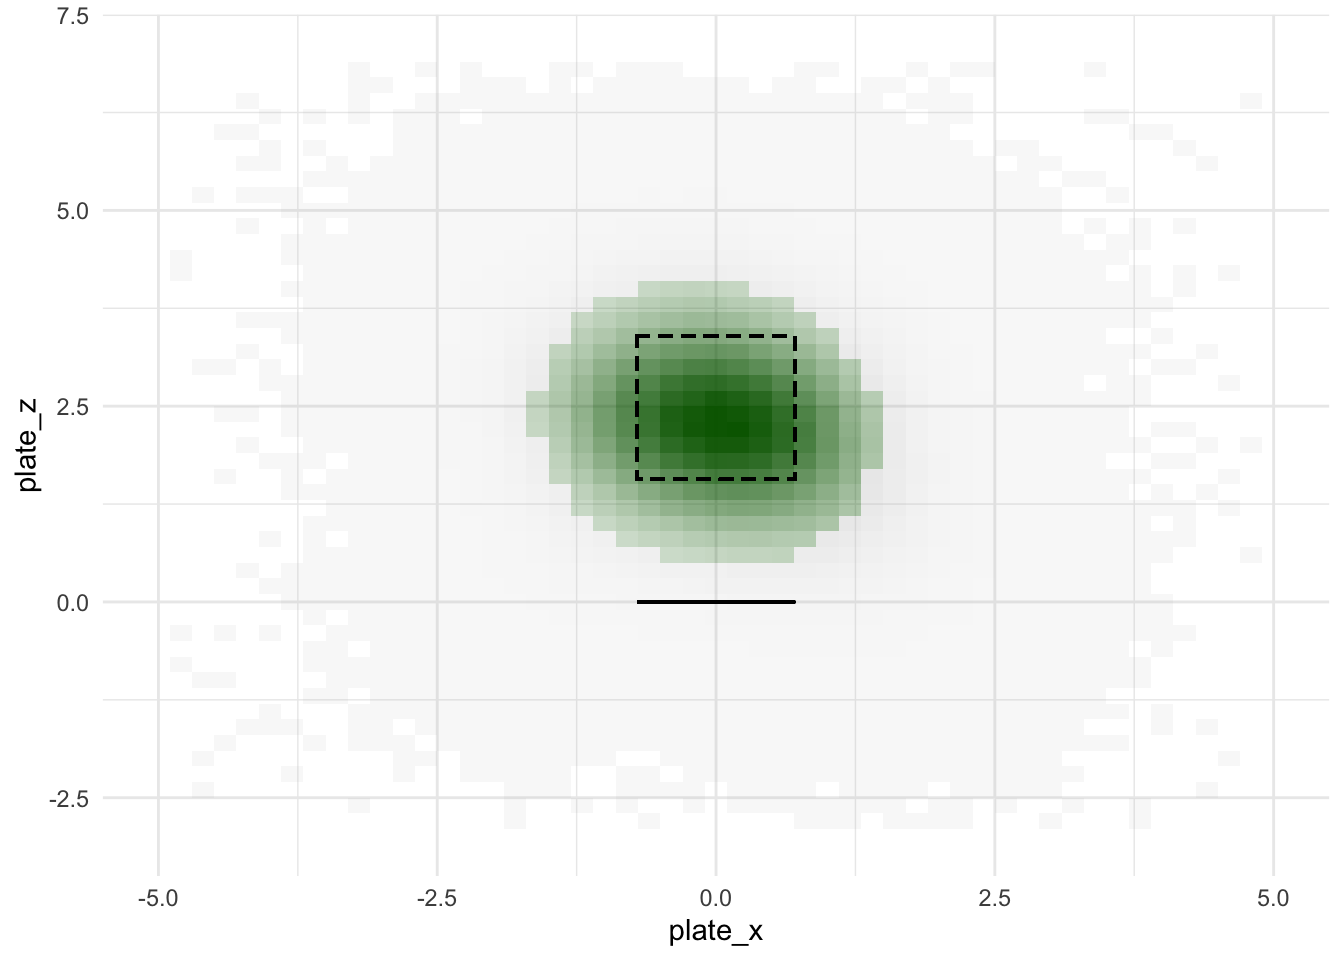
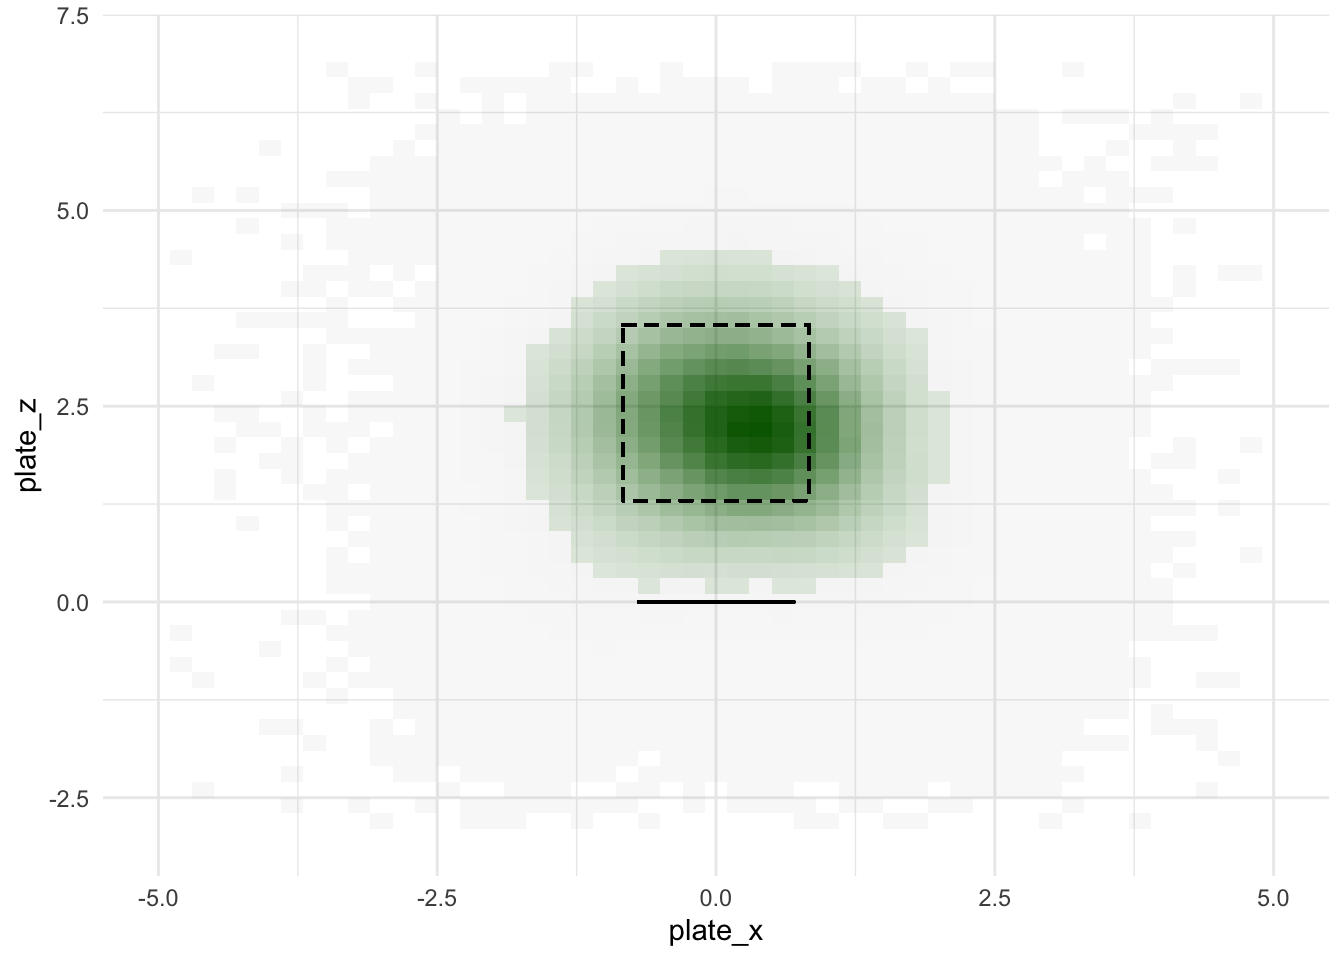
Build site.

Changed region(s): [[0.375, 0.25, 0.7188, 0.625]]

diff --git a/docs/countloc_preproc.html b/docs/countloc_preproc.html
@@ -517,10 +517,10 @@ This reproducible <a href="http://rmarkdown.rstudio.com">R Markdown</a> analysis
 <div class="panel panel-default">
 <div class="panel-heading">
 <p class="panel-title">
-<a data-toggle="collapse" data-parent="#workflowr-checks" href="#strongRepositoryversionstrongahrefhttpsgithubcomwillwerscheidMLBtreea683edee4d92e6f81fc3fb74e7619753efcffec2targetblanka683edea"> <span class="glyphicon glyphicon-ok text-success" aria-hidden="true"></span> <strong>Repository version:</strong> <a href="https://github.com/willwerscheid/MLB/tree/a683edee4d92e6f81fc3fb74e7619753efcffec2" target="_blank">a683ede</a> </a>
+<a data-toggle="collapse" data-parent="#workflowr-checks" href="#strongRepositoryversionstrongahrefhttpsgithubcomwillwerscheidMLBtree403035ce192e3e5b9f390f3009be4622bf6dc32ctargetblank403035ca"> <span class="glyphicon glyphicon-ok text-success" aria-hidden="true"></span> <strong>Repository version:</strong> <a href="https://github.com/willwerscheid/MLB/tree/403035ce192e3e5b9f390f3009be4622bf6dc32c" target="_blank">403035c</a> </a>
 </p>
 </div>
[2 lines of base64/hex data omitted]
 <div class="panel-body">
 <p>
 Great! You are using Git for version control. Tracking code development and connecting the code version to the results is critical for reproducibility. The version displayed above was the version of the Git repository at the time these results were generated. <br><br> Note that you need to be careful to ensure that all relevant files for the analysis have been committed to Git prior to generating the results (you can use <code>wflow_publish</code> or <code>wflow_git_commit</code>). workflowr only checks the R Markdown file, but you know if there are other scripts or data files that it depends on. Below is the status of the Git repository when the results were generated:
@@ -536,7 +536,6 @@ Ignored files:
 
 Untracked files:
     Untracked:  .DS_Store
-    Untracked:  analysis/countloc_woba.Rmd
     Untracked:  code/BBrates.R
     Untracked:  code/park_factors.R
     Untracked:  code/xBB.R
@@ -557,7 +556,10 @@ Untracked files:
     Untracked:  data/standard2018NP.csv
     Untracked:  data/standard2019.csv
     Untracked:  data/standard2019NP.csv
+    Untracked:  output/count_woba.rds
     Untracked:  output/mlb_preproc.rds
+    Untracked:  pitchloc_looks.rds
+    Untracked:  pitchloc_swings.rds
 
 Unstaged changes:
     Modified:   .gitignore
@@ -599,6 +601,40 @@ Message
 </tr>
 </thead>
 <tbody>
+<tr>
+<td>
+Rmd
+</td>
+<td>
+<a href="https://github.com/willwerscheid/MLB/blob/403035ce192e3e5b9f390f3009be4622bf6dc32c/analysis/countloc_preproc.Rmd" target="_blank">403035c</a>
+</td>
+<td>
+Jason Willwerscheid
+</td>
+<td>
+2020-02-20
+</td>
+<td>
+wflow_publish(“analysis/countloc_preproc.Rmd”)
+</td>
+</tr>
+<tr>
+<td>
+html
+</td>
+<td>
+<a href="https://rawcdn.githack.com/willwerscheid/MLB/5eb5f07ff5df670faccf40e3e110d158c070a834/docs/countloc_preproc.html" target="_blank">5eb5f07</a>
+</td>
+<td>
+Jason Willwerscheid
+</td>
+<td>
+2020-02-20
+</td>
+<td>
+Build site.
+</td>
+</tr>
 <tr>
 <td>
 Rmd
@@ -718,7 +754,7 @@ all_pitches &lt;- mlb %&gt;%
   left_join(PA_df, by = c(&quot;game_date&quot;, &quot;home_team&quot;, &quot;at_bat_number&quot;)) %&gt;%
   filter(!is_doubleheader)
 
-# Calculate the wOBA values for each PA outcome.
+# Get the wOBA values for each PA outcome.
 all_pitches &lt;- all_pitches %&gt;%
   mutate_at(vars(woba_value, woba_denom), ~ replace_na(., 0))
 PA_woba &lt;- all_pitches %&gt;%
@@ -758,27 +794,32 @@ paste0(round(100 * (prev_nrow - nrow(all_pitches)) / prev_nrow, 1),
        &quot;% of pitches removed&quot;)</code></pre>
 <pre><code>#&gt; [1] &quot;0.4% of pitches removed&quot;</code></pre>
 </div>
+<div id="flip-location-data-for-left-handed-hitters" class="section level2">
+<h2>Flip location data for left-handed hitters</h2>
+<p>Since right-handed hitters’ preferred pitch zones are mirror images of left-handed hitters’, I flip the <span class="math inline">\(x\)</span>-axis for pitches to lefties. This transformation eliminates the need to condition on handedness in subsequent computations.</p>
+<pre class="r"><code>all_pitches &lt;- all_pitches %&gt;%
+  mutate(plate_x = ifelse(stand == &quot;L&quot;, -plate_x, plate_x))</code></pre>
+</div>
 <div id="bin-location-data" class="section level2">
 <h2>Bin location data</h2>
-<p>This final step is the most sensitive part of the preprocessing. I’d like to bin the pitch locations to get nonparametric estimates of swing rates and contact rates. I want to use as fine a grid as possible while retaining enough data points per bin to get reasonably accurate estimates. After some fiddling, I settled on bins with widths and heights of 0.2 feet (2.4 inches). I discarded pitches that landed in very sparsely populated bins: these are pitches that are located far off the plate and are easy to lay off of, so they don’t tell us much about plate discipline. Nor do they tell us much about contact rates: it’s not unreasonable to imagine that a batter who swings at one of these pitches sees a crushable softball pitch, so that the sample of pitches that are swung at is especially unrepresentative of all pitches to that location. I’ll have more to say about this step when I discuss metrics for hitter contact.</p>
-<p>In the plot below, the dashed lines indicate the average strike zone. The green bins are the ones that I’ve retained.</p>
+<p>This final step is the most sensitive part of the preprocessing. I’d like to bin the pitch locations to get nonparametric estimates of swing rates and contact rates. I want to use as fine a grid as possible while retaining enough data points per bin to get reasonably accurate estimates. After some fiddling, I settled on bins with widths and heights of 0.2 feet (2.4 inches). I discarded pitches that landed in very sparsely populated bins: these are pitches that are located far off the plate and are easy to lay off of, so they don’t tell us much about plate discipline. I’ll have more to say about this step when I discuss metrics for hitter contact.</p>
+<p>In the plot below, the dashed lines indicate the <a href="https://www.baseballprospectus.com/news/article/37347/robo-strike-zone-not-simple-think/">theoretical strike zone</a>. The green bins are the ones that I’ve retained.</p>
 <pre class="r"><code>prev_nrow &lt;- nrow(all_pitches)
 
 all_pitches &lt;- all_pitches %&gt;%
   mutate(plate_x = round(plate_x / 2, 1) * 2,
-         plate_z = round(plate_z / 2, 1) * 2)
+         plate_z = round(plate_z / 2, 1) * 2) %&gt;%
+  group_by(plate_x, plate_z)
 
-sz_bot &lt;- mean(all_pitches$sz_bot)
-sz_top &lt;- mean(all_pitches$sz_top)
-sz_left &lt;- -8.5 / 12
-sz_right &lt;- 8.5 / 12
+plate_left &lt;- -8.5 / 12
+plate_right &lt;- 8.5 / 12
+sz_left &lt;- plate_left - 2.94 / 2 / 12
+sz_right &lt;- plate_right + 2.94 / 2 / 12
+sz_bot &lt;- 15.53 / 12
+sz_top &lt;- 42.47 / 12
 
-ggplot(all_pitches %&gt;% 
-         group_by(plate_x, plate_z, stand) %&gt;% 
-         summarize(n = n()) %&gt;%
-         group_by(plate_x, plate_z) %&gt;%
-         summarize(is.kept = min(n) &gt;= 1000, n = sum(n)), 
-       aes(plate_x, plate_z, fill = is.kept, alpha = n)) +
+ggplot(all_pitches %&gt;% summarize(n = n()), 
+       aes(plate_x, plate_z, fill = n &gt;= 1000, alpha = n)) +
   geom_tile() + 
   xlim(c(-5, 5)) +
   ylim(c(-3, 7)) +
@@ -787,7 +828,7 @@ ggplot(all_pitches %&gt;%
   scale_fill_manual(values = c(&quot;grey&quot;, &quot;dark green&quot;)) +
   geom_rect(aes(xmin = sz_left, xmax = sz_right, ymin = sz_bot, ymax = sz_top),
                 col = &quot;black&quot;, linetype = &quot;dashed&quot;, alpha = 0) +
-  geom_segment(aes(x = sz_left, xend = sz_right, y = 0, yend = 0))</code></pre>
+  geom_segment(aes(x = plate_left, xend = plate_right, y = 0, yend = 0))</code></pre>
 <pre><code>#&gt; Warning: Removed 79 rows containing missing values (geom_tile).</code></pre>
 <p><img src="figure/countloc_preproc.Rmd/loc-1.png" width="672" style="display: block; margin: auto;" /></p>
 <p>
@@ -829,13 +870,12 @@ Jason Willwerscheid
 </div>
 <pre class="r"><code>  
 all_pitches &lt;- all_pitches %&gt;%
-  group_by(plate_x, plate_z, stand) %&gt;%
   filter(length(plate_x) &gt;= 1000) %&gt;%
   ungroup()
 
 paste0(round(100 * (prev_nrow - nrow(all_pitches)) / prev_nrow, 1), 
        &quot;% of pitches removed&quot;)</code></pre>
-<pre><code>#&gt; [1] &quot;12.6% of pitches removed&quot;</code></pre>
+<pre><code>#&gt; [1] &quot;6.7% of pitches removed&quot;</code></pre>
 </div>
 <div id="refactor-variables" class="section level2">
 <h2>Refactor variables</h2>
